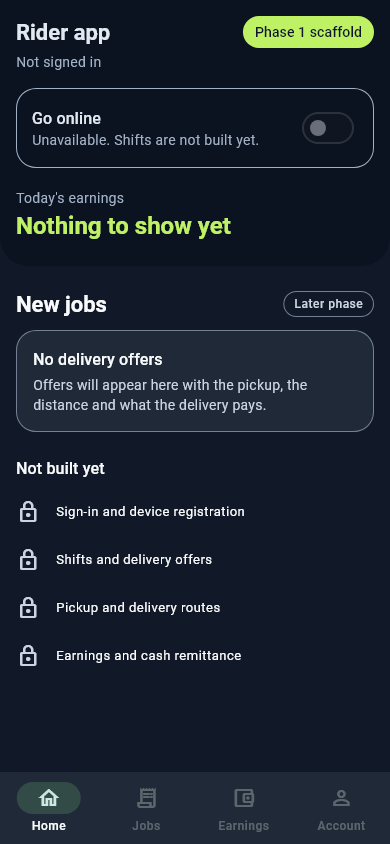
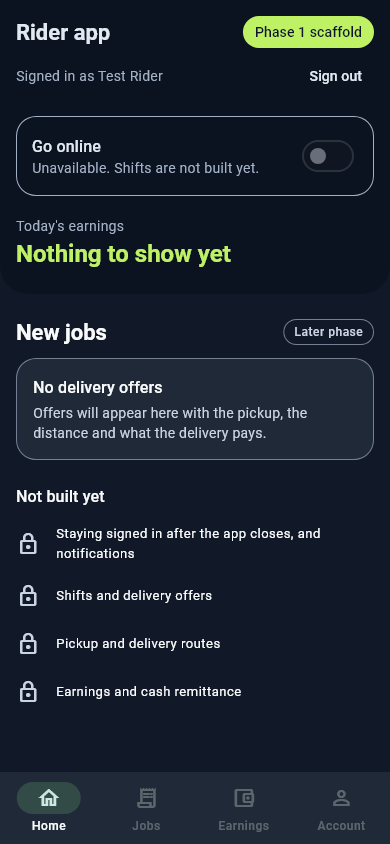
test(web): responsive screenshots of every built screen (U-09)
- tests/browser/screenshots.spec.ts, opt-in with SCREENSHOTS=1
- 76 images at 1440, 768, 375 and 360 under docs/qa/evidence/screens/
  (API mocked; synthetic data); rider images regenerated
- No horizontal overflow logged on any screen

diff --git a/tests/browser/screenshots.spec.ts b/tests/browser/screenshots.spec.ts
@@ -1,0 +1,112 @@
+// Evidence screenshots (backlog U-09). Opt-in: writes files only when SCREENSHOTS=1, so normal runs stay clean.
+//   $env:SCREENSHOTS=1; pnpm exec playwright test tests/browser/screenshots.spec.ts --workers=1
+// Output: docs/qa/evidence/screens/<app>/<screen>-<width>.png (phone project also writes 360).
+// The API is replaced by route interception, as in state-matrix.spec.ts. Anything with a name on screen is
+// labelled "Synthetic"; no password, token or real account is involved.
+import { test, type Page, type Route } from "@playwright/test";
+import { mkdirSync } from "node:fs";
+import path from "node:path";
+
+const bases = { customer: "http://localhost:3000", merchant: "http://localhost:3001", admin: "http://localhost:3002" } as const;
+type App = keyof typeof bases;
+
+const city = {
+  id: "test-city", name: "Synthetic city", slug: "test-city", country_code: "ZZ", currency_code: "PHP",
+  timezone: "UTC", status: "draft", created_at: "2026-01-01T00:00:00Z", updated_at: "2026-01-01T00:00:00Z",
+};
+const zone = {
+  id: "test-zone", city_id: "test-city", name: "Synthetic zone", slug: "test-zone", status: "draft", version: 3, priority: 0,
+  created_at: "2026-01-01T00:00:00Z", updated_at: "2026-01-01T00:00:00Z",
+};
+const entry = {
+  id: "entry-1", actor_user_id: null, action: "city.created", subject_type: "city", subject_id: null, city_id: null,
+  before: null, after: null, correlation_id: null, created_at: "2026-01-01T00:00:00Z",
+};
+const counts = { draft: 0, active: 0, paused: 0, archived: 0 };
+const systemStatus = {
+  environment: "testing", debug: false, checks: { database: true, redis: true }, postgis: true,
+  cities: counts, zones: counts, features: {}, map_style_configured: false, geometry_caps_approved: false,
+};
+const staff = {
+  data: { id: "01JTESTSTAFF000000000000000", name: "Test Staff", email: "staff@example.test", email_verified: true, mfa_enabled: true, surface: "admin", grants: [] },
+  meta: { request_id: "test" },
+};
+
+/** Routes one API path (any query string) to a handler. */
+const api = (page: Page, pathname: string, handler: (route: Route) => unknown) =>
+  page.route((url) => url.pathname === pathname, (route) => void handler(route));
+
+const list = (data: unknown[]) => ({ json: { data, meta: { next_cursor: null } } });
+
+async function mock(page: Page, signedIn: boolean) {
+  await page.route("**/api/v1/me", (route) => (signedIn ? route.fulfill({ json: staff }) : route.fulfill({ status: 401 })));
+  await page.route("**/api/v1/auth/csrf", (route) => route.fulfill({ json: { data: { csrf_token: "browser-test" } } }));
+  await page.route("**/api/v1/public/config", (route) => route.fulfill({ json: { data: { currency: "PHP" } } }));
+}
+
+type Shot = { app: App; name: string; url: string; setup?: (page: Page) => Promise<void>; signedIn?: boolean; wait?: string };
+
+const shots: Shot[] = [
+  { app: "customer", name: "home", url: "/" },
+  { app: "customer", name: "login", url: "/login" },
+  { app: "customer", name: "forgot-password", url: "/forgot-password" },
+  { app: "customer", name: "reset-password", url: "/reset-password" },
+  { app: "customer", name: "location", url: "/location" },
+  { app: "merchant", name: "home", url: "/" },
+  { app: "merchant", name: "login", url: "/login" },
+  { app: "merchant", name: "forgot-password", url: "/forgot-password" },
+  { app: "merchant", name: "reset-password", url: "/reset-password" },
+  { app: "admin", name: "overview", url: "/" },
+  { app: "admin", name: "login", url: "/login" },
+  { app: "admin", name: "forgot-password", url: "/forgot-password" },
+  { app: "admin", name: "reset-password", url: "/reset-password" },
+  { app: "admin", name: "security", url: "/security", signedIn: true, wait: "Two-step sign-in is on" },
+  {
+    app: "admin", name: "cities-empty", url: "/cities", wait: "No cities yet",
+    setup: (page) => api(page, "/api/v1/admin/cities", (route) => route.fulfill(list([]))),
+  },
+  {
+    app: "admin", name: "cities-list", url: "/cities", wait: "Synthetic city",
+    setup: (page) => api(page, "/api/v1/admin/cities", (route) => route.fulfill(list([city]))),
+  },
+  {
+    app: "admin", name: "city-detail", url: "/cities/test-city", wait: "Synthetic zone",
+    setup: async (page) => {
+      await api(page, "/api/v1/admin/cities/test-city", (route) => route.fulfill({ json: { data: city } }));
+      await api(page, "/api/v1/admin/cities/test-city/zones", (route) => route.fulfill({ json: { data: [zone] } }));
+      await api(page, "/api/v1/admin/zones/test-zone/exclusions", (route) => route.fulfill(list([])));
+    },
+  },
+  {
+    app: "admin", name: "audit", url: "/audit", wait: "city.created",
+    setup: (page) => api(page, "/api/v1/admin/audit-logs", (route) => route.fulfill(list([entry]))),
+  },
+  {
+    app: "admin", name: "settings", url: "/settings", wait: "Service checks",
+    setup: (page) => api(page, "/api/v1/admin/system/status", (route) => route.fulfill({ json: { data: systemStatus } })),
+  },
+];
+
+test.skip(process.env.SCREENSHOTS !== "1", "opt-in: set SCREENSHOTS=1 to write evidence images");
+
+for (const shot of shots) {
+  test(`screenshot ${shot.app}/${shot.name}`, async ({ page }) => {
+    const viewport = page.viewportSize()!;
+    const widths = viewport.width === 375 ? [375, 360] : [viewport.width];
+    await mock(page, shot.signedIn ?? false);
+    await shot.setup?.(page);
+    const dir = path.join("docs", "qa", "evidence", "screens", shot.app);
+    mkdirSync(dir, { recursive: true });
+    for (const width of widths) {
+      await page.setViewportSize({ width, height: viewport.height });
+      await page.goto(bases[shot.app] + shot.url);
+      if (shot.wait) await page.getByText(shot.wait).first().waitFor();
+      await page.waitForLoadState("networkidle");
+      // The dev-server badge ("Cache disabled") is not part of the app; keep it out of the evidence.
+      await page.addStyleTag({ content: "nextjs-portal { display: none !important; }" });
+      await page.screenshot({ path: path.join(dir, `${shot.name}-${width}.png`) });
+      const overflow = await page.evaluate(() => document.documentElement.scrollWidth - innerWidth);
+      if (overflow > 0) console.log(`OVERFLOW ${shot.app}/${shot.name} @${width}: ${overflow}px`);
+    }
+  });
+}

diff --git a/docs/PHASE1_STATUS.md b/docs/PHASE1_STATUS.md
@@ -2,6 +2,21 @@
 
 Last updated: 2026-11-14. Phase 1 has working browser authentication, rider token endpoints, and city, zone and serviceability APIs. Sprint 8 acceptance remains open.
 
+## November 14 screenshot evidence (U-09)
+
+- Command (PowerShell, repository root; the spec starts the three dev servers itself, so ports 3000-3002 must be free):
+  `$env:SCREENSHOTS=1; pnpm exec playwright test tests/browser/screenshots.spec.ts --workers=1`
+  Without `SCREENSHOTS=1` the spec skips and writes nothing. Result: 57 passed (19 screens x 3 viewport projects).
+- Output: 76 PNGs, 2.7 MB, in `docs/qa/evidence/screens/<app>/<screen>-<width>.png`. Widths are 1440, 768, 375 and 360 (the phone project writes both 375 and 360). The Next.js dev-server badge is hidden before capture.
+  - customer: home, login, forgot-password, reset-password, location.
+  - merchant: home, login, forgot-password, reset-password.
+  - admin: overview, login, forgot-password, reset-password, security, cities-empty, cities-list, city-detail, audit, settings.
+- Data: the apps are real running dev builds, but the API is replaced by route interception, as in `state-matrix.spec.ts`. Names on screen are labelled "Synthetic"; the signed-in screens (security, cities, city, audit, settings) use a mocked session and mocked answers, not a real account or password. The customer home banner comes from the existing public-config stub (service closed).
+- The spec logs `OVERFLOW <screen> @<width>` if a page scrolls sideways; none was logged.
+- Rider: `RENDER_EVIDENCE=1 flutter test test/render_evidence_test.dart --update-goldens` in `apps/rider-flutter` passed and rewrote `docs/qa/evidence/rider-home-390-dark.png` and `-light.png`.
+- Not covered: screens that only appear after real interaction (city and zone forms with errors, exclusions, MFA setup steps); those are exercised by the browser tests but not captured. Rollback: delete `docs/qa/evidence/screens/` and `tests/browser/screenshots.spec.ts`.
+- `pnpm lint` and `pnpm typecheck` pass.
+
 ## November 14 staff two-step sign-in: screens and recovery (B-09)
 
 Evidence: `docs/qa/evidence/phase1-2026-11-14-mfa-check.txt` (`dev.ps1 check`, exit 0; 485 backend tests) and `phase1-2026-11-14-mfa-browser.txt` (`pnpm test:browser --workers=2`, exit 0; 171 passed, 3 opt-in skips). Both were run after all three agents had finished.

diff --git a/docs/backlog.md b/docs/backlog.md
@@ -90,7 +90,7 @@ Status key: `todo`, `blocked`, `done`.
 | U-06 | Customer: home, location, login, account, labelled previews | Playwright scenarios 1, 2, 5, 7, 8 | C-11, U-04 | partial: home with a live service banner, `/login`, and `/location` (coordinates or device location to a serviceability answer) built and run by hand in a browser; no map pin, address entry, saved addresses or account page, and no Playwright scenarios |
 | U-07 | Merchant shell | Scoped, no fabricated data, disabled actions labelled | C-11, U-02 | partial: overview shell and `/login` built; no merchant account exists to sign in with, and branch data waits for its API |
 | U-08 | Rider shell | Flutter tests in spec 10.3; no location permission request | A-09, B-08 | partial: sign-in screen and API client against the B-08 token endpoints, sign-out, rider name from `/rider/me`; 47 Flutter tests (fake client and a loopback HTTP server). Token kept in memory only. Never run on a device or against the real API; needs `--dart-define=API_BASE_URL=...` |
-| U-09 | Screenshots at 360/375, 768, 1440 from running apps | Saved under `docs/qa/evidence/` | U-05..U-08 | todo |
+| U-09 | Screenshots at 360/375, 768, 1440 from running apps | Saved under `docs/qa/evidence/` | U-05..U-08 | done 2026-11-14: 76 web images under `docs/qa/evidence/screens/<app>/` from `tests/browser/screenshots.spec.ts` (opt-in, `SCREENSHOTS=1`); rider images regenerated; API mocked, see `docs/PHASE1_STATUS.md` |
 | U-10 | Select tile provider (human) | ADR-007 open item closed, or placeholder accepted for Phase 1 | — | blocked (human) |
 
 ## Sprint 7 — observability and staging (Slice E)
